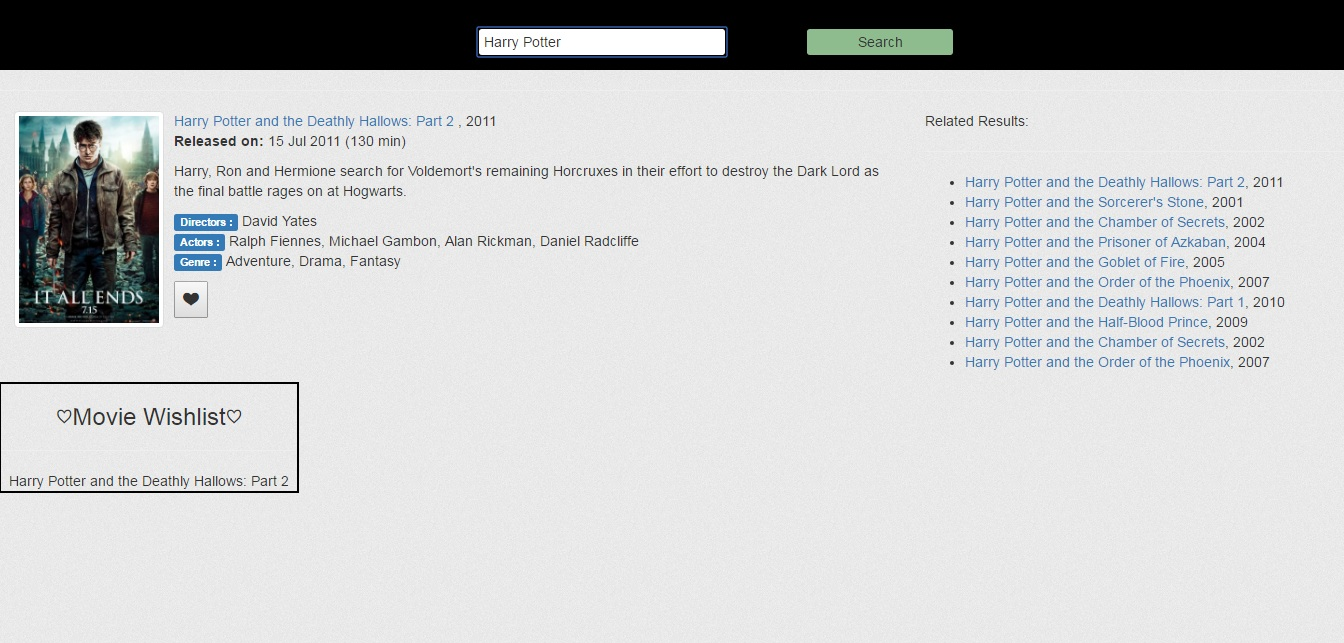
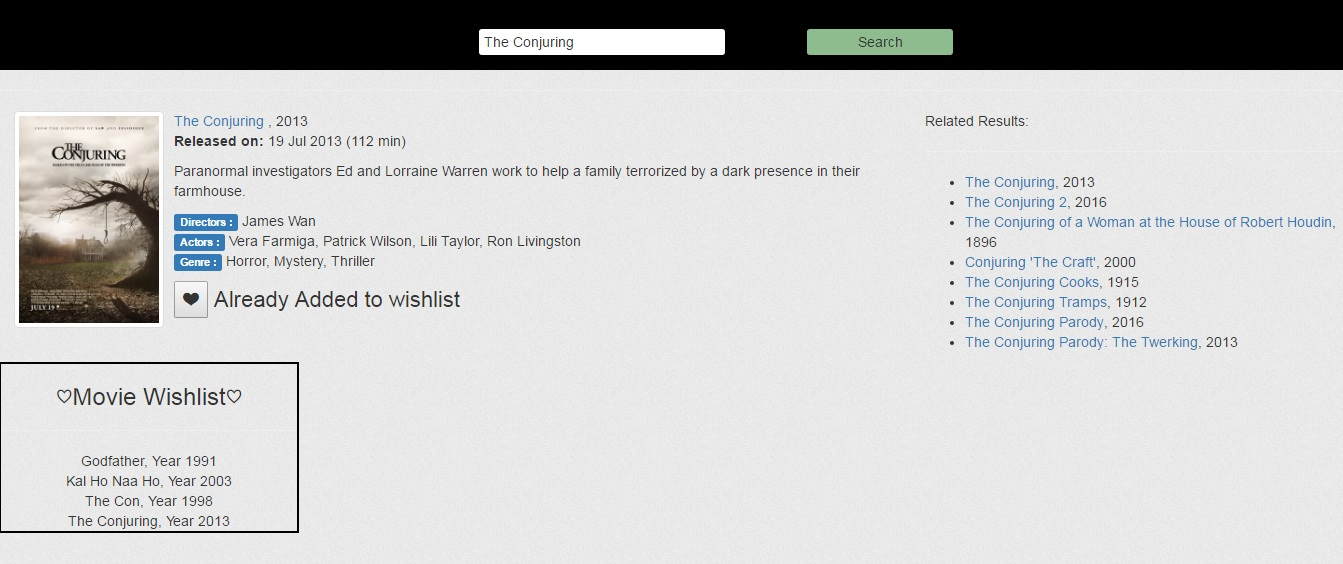
Updated files
This commit includes the add to wishlist feature in movie application :-
 -Simple and better UI .
 - Search movie application.
 - Add to wishlist feature.

diff --git a/movie/js/ngStorage.min.js b/movie/js/ngStorage.min.js
@@ -1,0 +1,1 @@
+/*! ngstorage 0.3.10 | Copyright (c) 2016 Gias Kay Lee | MIT License */!function(a,b){"use strict";"function"==typeof define&&define.amd?define(["angular"],b):a.hasOwnProperty("angular")?b(a.angular):"object"==typeof exports&&(module.exports=b(require("angular")))}(this,function(a){"use strict";function b(a,b){var c;try{c=a[b]}catch(d){c=!1}if(c){var e="__"+Math.round(1e7*Math.random());try{a[b].setItem(e,e),a[b].removeItem(e,e)}catch(d){c=!1}}return c}function c(c){var d=b(window,c);return function(){var e="ngStorage-";this.setKeyPrefix=function(a){if("string"!=typeof a)throw new TypeError("[ngStorage] - "+c+"Provider.setKeyPrefix() expects a String.");e=a};var f=a.toJson,g=a.fromJson;this.setSerializer=function(a){if("function"!=typeof a)throw new TypeError("[ngStorage] - "+c+"Provider.setSerializer expects a function.");f=a},this.setDeserializer=function(a){if("function"!=typeof a)throw new TypeError("[ngStorage] - "+c+"Provider.setDeserializer expects a function.");g=a},this.supported=function(){return!!d},this.get=function(a){return d&&g(d.getItem(e+a))},this.set=function(a,b){return d&&d.setItem(e+a,f(b))},this.remove=function(a){d&&d.removeItem(e+a)},this.$get=["$rootScope","$window","$log","$timeout","$document",function(d,h,i,j,k){var l,m,n=e.length,o=b(h,c),p=o||(i.warn("This browser does not support Web Storage!"),{setItem:a.noop,getItem:a.noop,removeItem:a.noop}),q={$default:function(b){for(var c in b)a.isDefined(q[c])||(q[c]=a.copy(b[c]));return q.$sync(),q},$reset:function(a){for(var b in q)"$"===b[0]||delete q[b]&&p.removeItem(e+b);return q.$default(a)},$sync:function(){for(var a,b=0,c=p.length;c>b;b++)(a=p.key(b))&&e===a.slice(0,n)&&(q[a.slice(n)]=g(p.getItem(a)))},$apply:function(){var b;if(m=null,!a.equals(q,l)){b=a.copy(l),a.forEach(q,function(c,d){a.isDefined(c)&&"$"!==d[0]&&(p.setItem(e+d,f(c)),delete b[d])});for(var c in b)p.removeItem(e+c);l=a.copy(q)}},$supported:function(){return!!o}};return q.$sync(),l=a.copy(q),d.$watch(function(){m||(m=j(q.$apply,100,!1))}),h.addEventListener&&h.addEventListener("storage",function(b){if(b.key){var c=k[0];c.hasFocus&&c.hasFocus()||e!==b.key.slice(0,n)||(b.newValue?q[b.key.slice(n)]=g(b.newValue):delete q[b.key.slice(n)],l=a.copy(q),d.$apply())}}),h.addEventListener&&h.addEventListener("beforeunload",function(){q.$apply()}),q}]}}return a=a&&a.module?a:window.angular,a.module("ngStorage",[]).provider("$localStorage",c("localStorage")).provider("$sessionStorage",c("sessionStorage"))});

diff --git a/movie/js/script.js b/movie/js/script.js
@@ -1,9 +1,15 @@
 var myApp = angular.module('myModule',['ngStorage']);
     myApp.controller("myController",function($scope,$http,$localStorage){
+       $scope.toBeSavedInWishList = true;
+       if(!$localStorage.savedWishlist){
+        $scope.wishlistToDispaly = [];
+       }else{
+        $scope.wishlistToDispaly = $localStorage.savedWishlist;
+       }
         $scope.$watch('search',function(){
             fetch();
         });
-        $scope.search = "GodFather";
+        $scope.search = "The Conjuring";
          function fetch(){
       $http.get("http://www.omdbapi.com/?t=" + $scope.search)
       .then(function(response){ $scope.details = response.data; });
@@ -11,11 +17,26 @@ var myApp = angular.module('myModule',['ngStorage']);
       $http.get("http://www.omdbapi.com/?s=" + $scope.search)
       .then(function(response){ $scope.related = response.data; });
     }
-        $scope.update = function(movie){
-		$scope.search = movie.Title;
+		$scope.update = function(movie){
+  		$scope.search = movie.Title;
     };
-		$scope.addwish = function addwish(){
-			$localStorage.setItem('Title',"{{movie.Title}}");
-			$scope.message = "added to wishlist";
-		}
-    });
+		$scope.addwish = function(details){
+		for (var i = 0; i < $scope.wishlistToDispaly.length; i++) {
+        if($scope.details.imdbID == $scope.wishlistToDispaly[i].imdbID){
+          $scope.toBeSavedInWishList = false;
+          $scope.successMessage = "Already Added to wishlist";
+          alert("Already in wishlist");
+          break;
+        }
+        else{
+          $scope.toBeSavedInWishList = true;
+        }
+      }
+      if($scope.toBeSavedInWishList == true){
+        $scope.successMessage = "added to wishlist";
+        $scope.wishlistToDispaly.push($scope.details);
+        $localStorage.savedWishlist = $scope.wishlistToDispaly;
+      }
+			
+		};
+});

diff --git a/movie/index.html b/movie/index.html
@@ -4,7 +4,8 @@
         <title>Movie List</title>
         <script type="text/javascript" src="angular.js"></script>
         <script type="text/javascript" src="js/script.js"></script>
-		<script src="https://cdn.jsdelivr.net/ngstorage/0.3.6/ngStorage.min.js"></script>
+		<script type="text/javascript" src="js/ngStorage.min.js"></script>
+		<!--<script src="https://cdn.jsdelivr.net/ngstorage/0.3.6/ngStorage.min.js"></script>-->
 		<link rel="stylesheet" href="css/bootstrap.min.css">
 		<link rel="stylesheet" href="css/style.css">
 		<meta name="viewport" content="width=device-width, initial-scale=1">
@@ -30,11 +31,11 @@
              
 			
         <center>
-        <div class="wishlist">
+			<div class="wishlist">
                 <h3>&#9825;Movie Wishlist&#9825;</h3><hr/>
-                {{details.Title}}
-            
-            
+				<div ng-repeat="wishList in wishlistToDispaly">
+                    {{ wishList.Title }}, Year {{ wishList.Year }}
+                </div>
             </div>
         </center> 
     </body>

diff --git a/movie/partials/main-info.html b/movie/partials/main-info.html
@@ -24,9 +24,9 @@
       <span class="label label-primary">Genre :</span> {{ details.Genre }}
     </div>
     </p>
-	<div class="addwish" >
-		<input type="button" value="&#10084;" ng-click="addwish()">
-		{{message}}
+	<div class="addwish">
+		<input type="button" value="&#10084;" ng-click="addwish(details)">
+		{{successMessage}}
 	</div>
 	<div ng-if="details.Response==='False'">
 	No results found.
